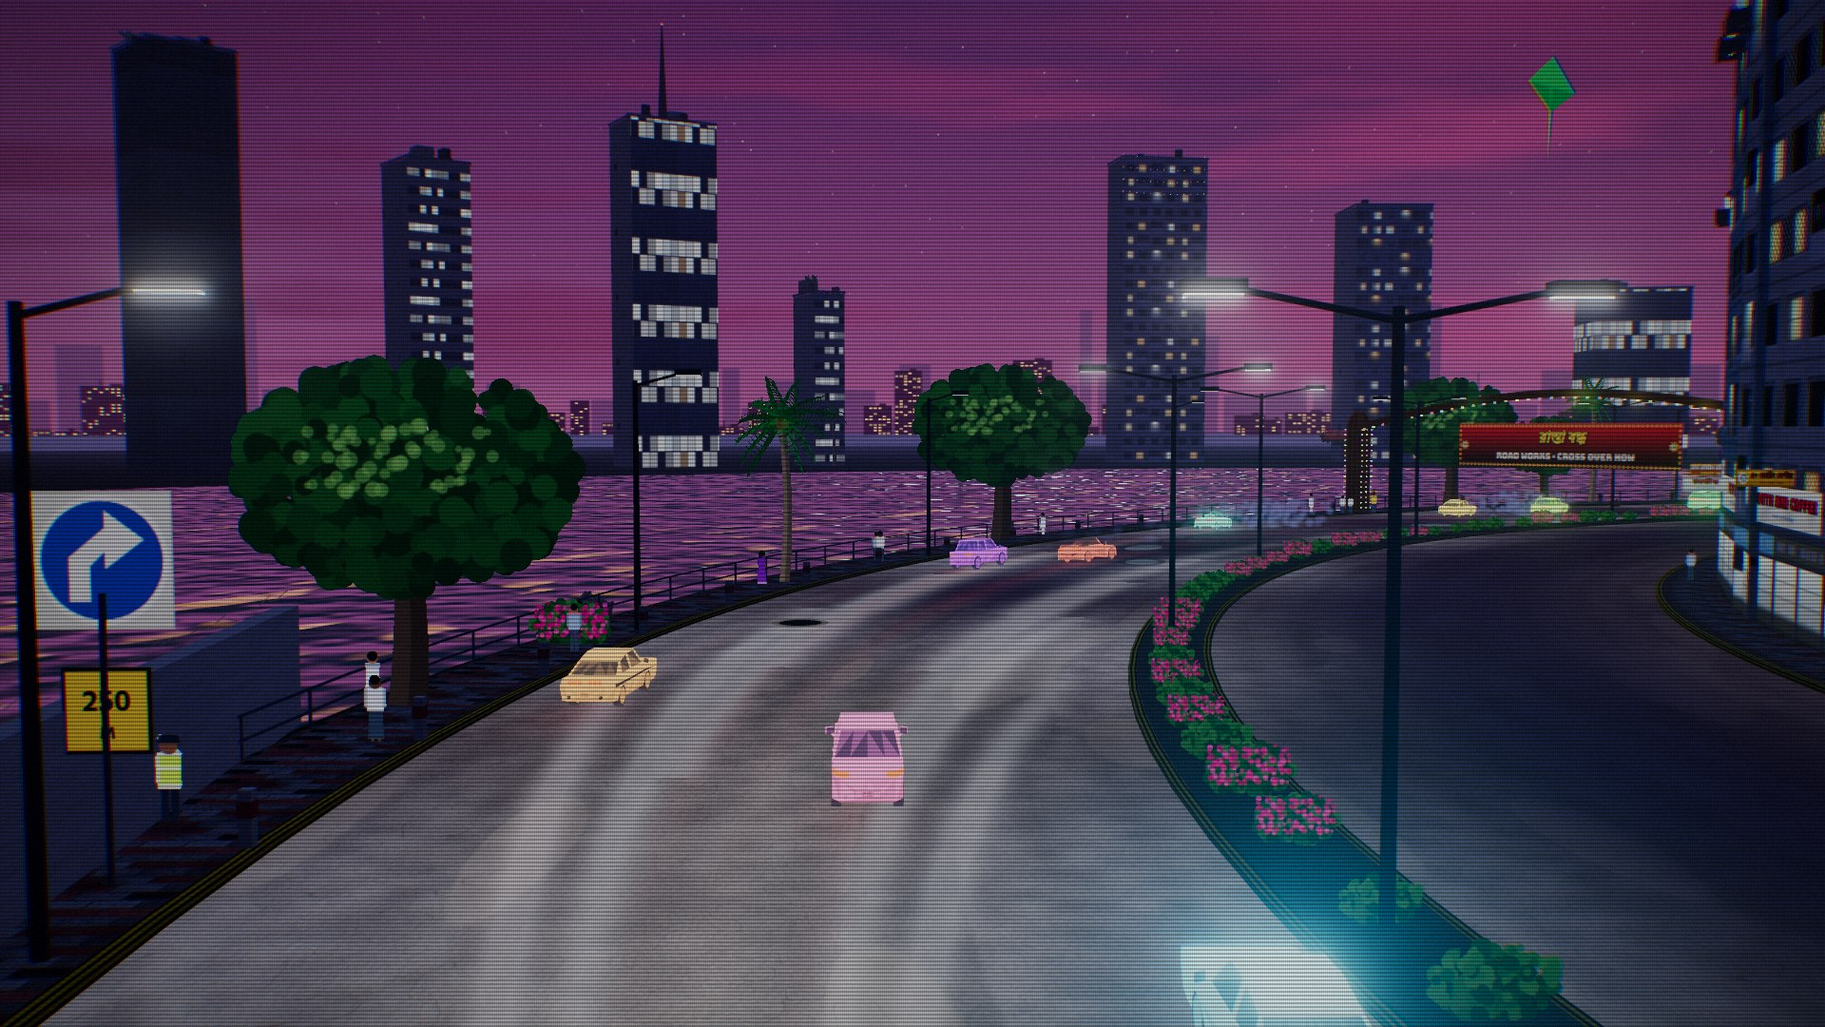
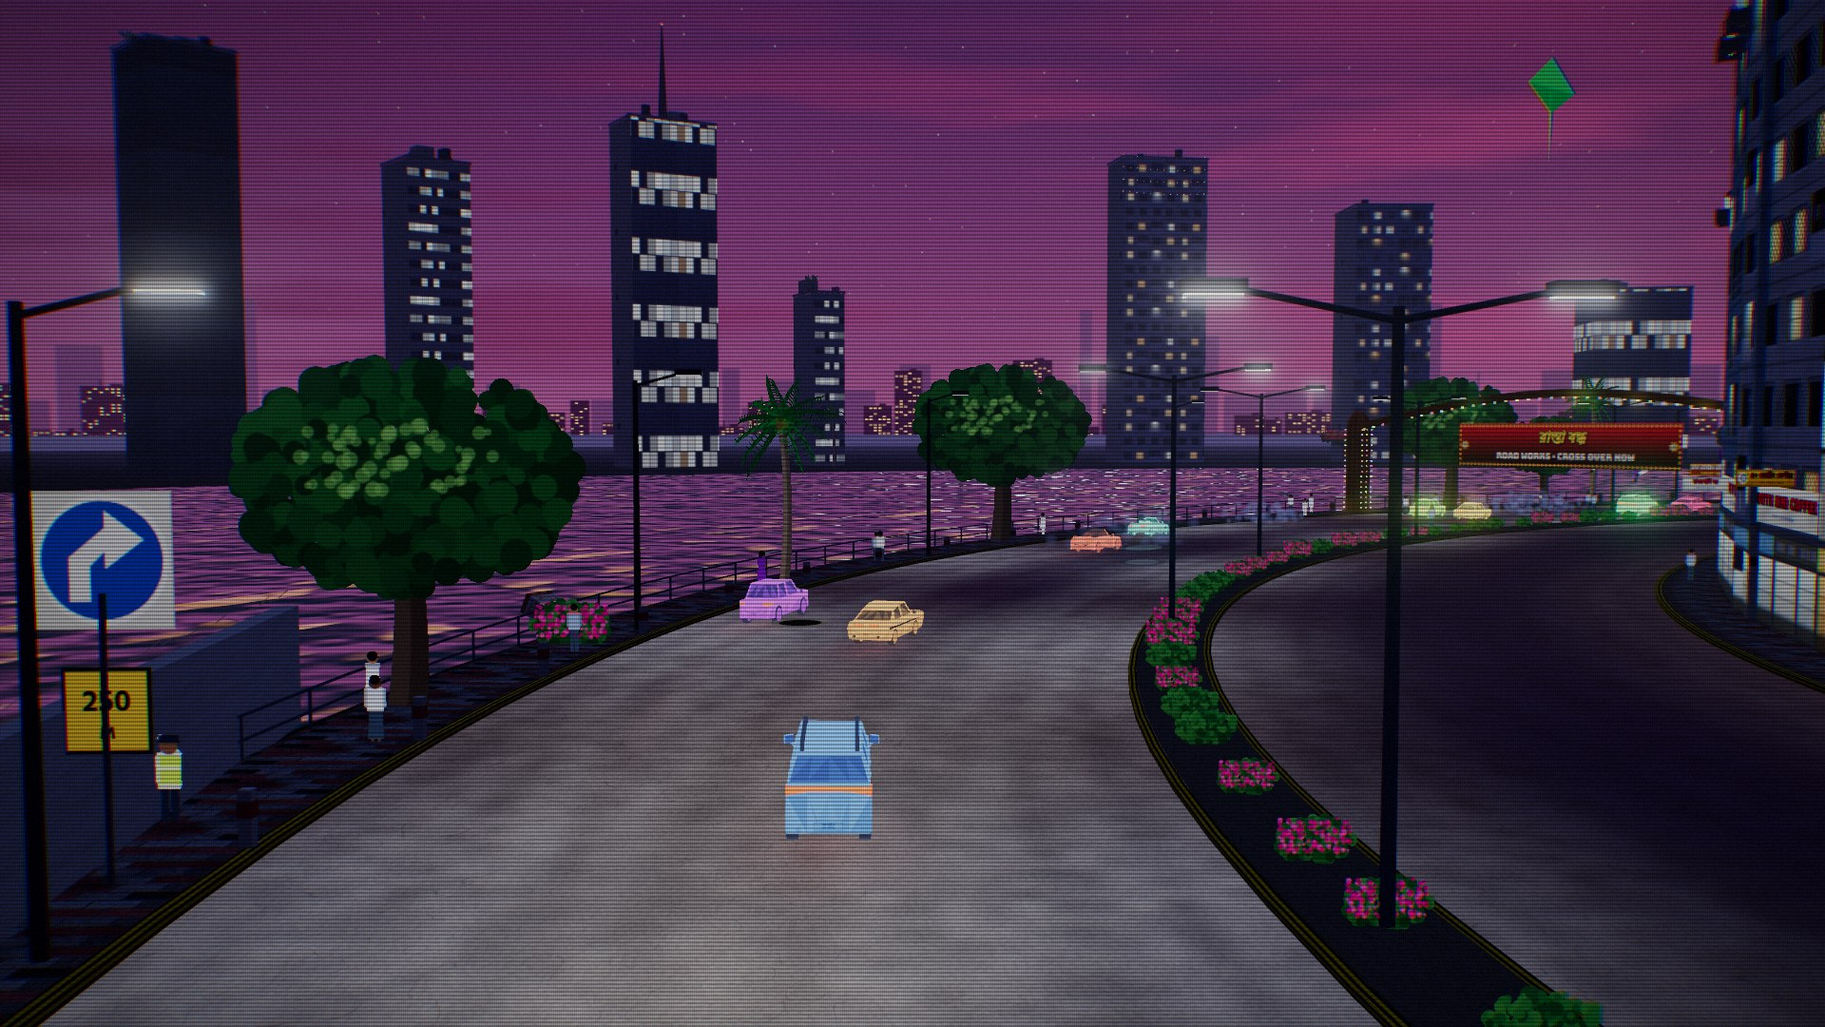
Fix night-road streaks, varied alpana, fill empty land, tilt Sangsad lake, random number plates, new screenshots

Changed region(s): [[0.25, 0.4583, 1.0, 1.0], [0.5625, 0.5806, 0.9062, 1.0], [0.9688, 0.55, 1.0, 0.6111]]

diff --git a/src/world/road.js b/src/world/road.js
@@ -47,6 +47,7 @@ const ROAD_FS = /* glsl */ `
   uniform float uCamX;
   uniform float uCamH;
   uniform float uWet;
+  uniform float uStreak;
   uniform vec3 uSkyRefl;
   uniform vec3 uFogColor;
   uniform float uFogDensity;
@@ -71,36 +72,49 @@ const ROAD_FS = /* glsl */ `
   float vn(vec2 p){ vec2 i=floor(p), f=fract(p); vec2 u=f*f*(3.-2.*f);
     return mix(mix(h12(i),h12(i+vec2(1,0)),u.x), mix(h12(i+vec2(0,1)),h12(i+vec2(1,1)),u.x), u.y); }
 
-  // Pohela Boishakh alpana: lotus medallions, dotted rings, vines
+  // Pohela Boishakh alpana: lotus medallions painted by hand, so no two are alike. Staggered cells, each medallion
+  // jittered, turned, scaled and coloured on its own, a few cells left bare and a few holding only a small ring of
+  // dots. Everything stays inside its cell (extent 3.5 m + 0.5 m jitter in a 4.5 m half-cell), so nothing is cut off.
   vec4 alpana(vec2 p) {
-    vec2 cellSize = vec2(7.0, 7.0);
-    vec2 id = floor(p / cellSize);
-    vec2 q = mod(p, cellSize) - cellSize * 0.5;
+    vec2 cs = vec2(9.0, 9.0);
+    float row = floor(p.y / cs.y);
+    float off = mod(row, 2.0) * 4.5;
+    vec2 id = vec2(floor((p.x + off) / cs.x), row);
+    float k = h12(id), k2 = h12(id + 7.3), k3 = h12(id + 19.1), k4 = h12(id + 31.7);
+    if (k2 < 0.14) return vec4(0.0);
+    vec2 q = vec2(mod(p.x + off, cs.x), mod(p.y, cs.y)) - cs * 0.5;
+    q += (vec2(k3, k4) - 0.5) * 1.0;
+    float sc = 0.55 + 0.45 * k4;
+    q /= sc;
+    float rot = k * 6.2832;
+    q = vec2(q.x * cos(rot) - q.y * sin(rot), q.x * sin(rot) + q.y * cos(rot));
     float r = length(q);
     float a = atan(q.y, q.x + 1e-5);
-    float k = h12(id);
-    float np = k > 0.5 ? 8.0 : 6.0;
+    float np = 5.0 + floor(k2 * 5.0);
+    float small = step(k3, 0.22);
     float petals = pow(max(abs(cos(a * np * 0.5)), 1e-4), 0.6);
-    float petal = 1.0 - smoothstep(-0.03, 0.03, r - (1.0 + 1.5 * petals));
-    float petalIn = 1.0 - smoothstep(-0.03, 0.03, r - (0.7 + 1.0 * petals));
-    float ring = 1.0 - smoothstep(0.06, 0.12, abs(r - 2.9));
-    float dots = (1.0 - smoothstep(0.1, 0.17, length(vec2(mod(a * 2.9 * 3.0, 1.0) - 0.5, (r - 3.25) * 1.2)))) ;
-    float core = 1.0 - smoothstep(-0.03, 0.03, r - 0.45);
-    vec3 c1, c2, c3;
-    if (k < 0.33) { c1 = vec3(0.92, 0.12, 0.10); c2 = vec3(1.0, 0.72, 0.05); c3 = vec3(0.98, 0.96, 0.92); }
-    else if (k < 0.66) { c1 = vec3(0.10, 0.42, 0.86); c2 = vec3(1.0, 0.25, 0.55); c3 = vec3(0.98, 0.96, 0.92); }
-    else { c1 = vec3(0.08, 0.62, 0.30); c2 = vec3(1.0, 0.55, 0.05); c3 = vec3(0.98, 0.96, 0.92); }
+    float petal = (1.0 - smoothstep(-0.03, 0.03, r - (1.0 + 1.5 * petals))) * (1.0 - small);
+    float petalIn = (1.0 - smoothstep(-0.03, 0.03, r - (0.7 + 1.0 * petals))) * (1.0 - small);
+    float ring = (1.0 - smoothstep(0.06, 0.12, abs(r - 2.9))) * (1.0 - small);
+    float nd = 12.0 + floor(k * 8.0);
+    float dots = 1.0 - smoothstep(0.1, 0.17, length(vec2(mod(a * nd / 6.2832, 1.0) - 0.5, (r - 3.25) * 1.2)));
+    dots *= step(2.6, r) * step(r, 3.5);
+    float core = 1.0 - smoothstep(-0.03, 0.03, r - mix(0.45, 1.3, small));
+    float sel = h12(id + 3.9);
+    vec3 c1, c2;
+    vec3 c3 = vec3(0.98, 0.96, 0.92);
+    if (sel < 0.2) { c1 = vec3(0.92, 0.12, 0.10); c2 = vec3(1.0, 0.72, 0.05); }
+    else if (sel < 0.4) { c1 = vec3(0.10, 0.42, 0.86); c2 = vec3(1.0, 0.25, 0.55); }
+    else if (sel < 0.6) { c1 = vec3(0.08, 0.62, 0.30); c2 = vec3(1.0, 0.55, 0.05); }
+    else if (sel < 0.8) { c1 = vec3(0.55, 0.15, 0.65); c2 = vec3(1.0, 0.85, 0.2); }
+    else { c1 = vec3(0.95, 0.45, 0.10); c2 = vec3(1.0, 0.82, 0.25); }
     vec3 col = vec3(0.0);
     float m = 0.0;
     if (petal > 0.0) { col = c1; m = petal; }
     if (petalIn > 0.0) { col = mix(col, c2, petalIn); m = max(m, petalIn); }
-    if (core > 0.0) { col = mix(col, c3, core); m = max(m, core); }
-    float rr = max(ring, dots * step(2.6, r));
+    if (core > 0.0) { col = mix(col, small > 0.5 ? c2 : c3, core); m = max(m, core); }
+    float rr = max(ring, dots);
     if (rr > 0.0) { col = mix(col, c3, rr); m = max(m, rr); }
-    // white vine linking medallions along lane centres
-    float vine = 1.0 - smoothstep(0.05, 0.1, abs(q.x - sin(p.y * 0.9) * 0.5) ) ;
-    vine *= step(3.3, r);
-    col = mix(col, c3, vine * 0.9); m = max(m, vine * 0.9);
     return vec4(col, m);
   }
 
@@ -127,13 +141,11 @@ const ROAD_FS = /* glsl */ `
 
     // --- asphalt
     float n1 = vn(vec2(lx * 1.7, s * 1.7));
-    float n2 = vn(vec2(lx * 0.21 + 5.0, s * 0.09));
+    float n2 = vn(vec2(lx * 0.3 + 5.0, s * 0.3));
     float n3 = h12(floor(vec2(lx, s) * 18.0));
-    vec3 col = vec3(0.080, 0.082, 0.090) * (0.8 + 0.32 * n1) * (0.82 + 0.36 * n2) * (0.9 + 0.22 * n3);
-    float pn = vn(vec2(lx * 0.35 + 17.0, s * 0.06));
-    col = mix(col, col * 0.78, smoothstep(0.68, 0.74, pn));
-    float pn2 = vn(vec2(lx * 0.5 - 3.0, s * 0.11 + 9.0));
-    col = mix(col, vec3(0.13, 0.125, 0.12), smoothstep(0.76, 0.8, pn2) * 0.35);
+    vec3 col = vec3(0.080, 0.082, 0.090) * (0.8 + 0.32 * n1) * (0.92 + 0.16 * n2) * (0.9 + 0.22 * n3);
+    float pn = vn(vec2(lx * 0.4 + 17.0, s * 0.4));
+    col = mix(col, col * 0.9, smoothstep(0.62, 0.8, pn));
     // cracks
     float cr = (1.0 - smoothstep(0.0, 0.012, abs(vn(vec2(lx * 1.6, s * 1.6)) - 0.5))) * smoothstep(0.72, 0.86, vn(vec2(lx * 0.1, s * 0.05 + 40.0)));
     col *= 1.0 - cr * 0.28;
@@ -162,8 +174,11 @@ const ROAD_FS = /* glsl */ `
     }
 
     // --- wetness
-    float pud = feat.g * smoothstep(0.52, 0.58, vn(vec2(lx * 0.25 + 3.0, s * 0.15)));
+    // puddle patches belong to real rain: on a dry night they showed as long pale strips down the road
+    float pud = feat.g * smoothstep(0.52, 0.58, vn(vec2(lx * 0.25 + 3.0, s * 0.15))) * clamp(uStreak * 2.0, 0.0, 1.0);
     float wet = clamp(uWet + pud, 0.0, 1.0);
+    // lamp and tail-light reflections streak only in real rain, not on dry night asphalt or in a puddle patch
+    float wetS = clamp(uStreak, 0.0, 1.0);
     col *= mix(1.0, 0.42, wet);
 
     // --- lighting
@@ -194,9 +209,9 @@ const ROAD_FS = /* glsl */ `
       float cq2 = cs + 2.2;
       float g = exp(-cx * cx / 1.4) * exp(-cq2 * cq2 / 5.0);
       tl += lc * g * c.z * 1.4;
-      if (wet > 0.05) {
+      if (wetS > 0.05) {
         float d = s - uCamS;
-        tl += lc * lampStreak(d, x, c.x, c.y, 0.9) * c.z * wet * 1.0 * smoothstep(14.0, 30.0, c.x - uCamS);
+        tl += lc * lampStreak(d, x, c.x, c.y, 0.9) * c.z * wetS * 0.35 * smoothstep(14.0, 30.0, c.x - uCamS);
       }
     }
     light += tl;
@@ -206,7 +221,7 @@ const ROAD_FS = /* glsl */ `
     vec3 V = normalize(cameraPosition - vWorld);
     float fres = pow(1.0 - clamp(V.y, 0.0, 1.0), 4.0);
     c += uSkyRefl * wet * (0.06 + 0.5 * fres) * 0.35;
-    if (wet > 0.05) {
+    if (wetS > 0.05) {
       float d = s - uCamS;
       float k0 = floor(((uCamS + d / (uCamH / (uCamH + 8.5))) - uLampOffset) / uLampSpacing + 0.5);
       float st = 0.0;
@@ -215,7 +230,7 @@ const ROAD_FS = /* glsl */ `
         st += lampStreak(d, x, sL, uLampX.x, 8.5) * uLampOn.x;
         st += lampStreak(d, x, sL, uLampX.y, 8.5) * uLampOn.y;
       }
-      c += uLampCol * min(st, 0.7) * uLamps * wet * 0.32;
+      c += uLampCol * min(st, 0.5) * uLamps * wetS * 0.07;
       // rain ripples sparkle
       float rp = step(0.995, h12(floor(vec2(lx, s) * 6.0) + floor(uTime * 12.0)));
       c += vec3(0.6) * rp * uRain * 0.4;
@@ -238,6 +253,7 @@ export function makeRoadMaterial(track, featTex, stage) {
     uLamps: shared.uLamps,
     uHead: shared.uHead,
     uWet: shared.uWet,
+    uStreak: shared.uStreak,
     uSkyRefl: shared.uSkyRefl,
     uFogColor: shared.uFogColor,
     uFogDensity: shared.uFogDensity,

diff --git a/src/game/cars.js b/src/game/cars.js
@@ -69,14 +69,33 @@ export function makeEnvMap(renderer, S, old) {
   return rt;
 }
 
-function plateTexture(text) {
+// Dhaka Metro plates: a series letter and a two-and-four digit number, new each race
+const SERIES = ['গ', 'ঘ', 'ক', 'খ', 'চ', 'ছ', 'ল', 'ব', 'ড', 'ঠ', 'হ'];
+const bnDigits = (n) => String(n).replace(/[0-9]/g, (d) => '০১২৩৪৫৬৭৮৯'[d]);
+export function randomPlate() {
+  const r = (n) => Math.floor(Math.random() * n);
+  return { series: 'ঢাকা মেট্রো-' + SERIES[r(SERIES.length)], text: bnDigits(11 + r(40)) + '-' + bnDigits(1000 + r(9000)) };
+}
+const plateMats = [];
+function plateMat(text) {
+  const m = new THREE.MeshBasicMaterial({ map: plateTexture(text) });
+  plateMats.push(m);
+  return m;
+}
+// a new number on every plate of the player's car
+export function rerollPlates() {
+  const p = randomPlate();
+  for (const m of plateMats) { m.map?.dispose(); m.map = plateTexture(p.text, p.series); m.needsUpdate = true; }
+}
+
+function plateTexture(text, series = 'ঢাকা মেট্রো-গ') {
   const cv = document.createElement('canvas');
   cv.width = 256; cv.height = 64;
   const ctx = cv.getContext('2d');
   ctx.fillStyle = '#f4f4ec';
   ctx.fillRect(0, 0, 256, 64);
   ctx.strokeStyle = '#111'; ctx.lineWidth = 4; ctx.strokeRect(2, 2, 252, 60);
-  P.signText(ctx, 'ঢাকা মেট্রো-গ', 128, 20, { font: `700 22px ${P.FONT_BN_SANS}`, fill: '#111', stroke: null, lw: 0 });
+  P.signText(ctx, series, 128, 20, { font: `700 22px ${P.FONT_BN_SANS}`, fill: '#111', stroke: null, lw: 0 });
   P.signText(ctx, text, 128, 46, { font: `700 28px ${P.FONT_BN_SANS}`, fill: '#111', stroke: null, lw: 0 });
   const t = new THREE.CanvasTexture(cv);
   t.colorSpace = THREE.SRGBColorSpace;
@@ -227,7 +246,7 @@ export function buildPlayerCar(def, colorHex, assets) {
     const d = parts.dims;
     const rear = d.len / 2;
     for (const [z, rot, txt] of [[parts.plates.rz + 0.012, 0, '১১-৪২০৪'], [parts.plates.fz - 0.012, Math.PI, '১১-৪২০৪']]) {
-      const pl = new THREE.Mesh(new THREE.PlaneGeometry(0.52, 0.13), new THREE.MeshBasicMaterial({ map: plateTexture(txt) }));
+      const pl = new THREE.Mesh(new THREE.PlaneGeometry(0.52, 0.13), plateMat(txt));
       pl.position.set(0, parts.plates.y, z);
       pl.rotation.y = rot;
       body.add(pl);
@@ -305,7 +324,7 @@ export function buildPlayerCar(def, colorHex, assets) {
       body.add(slat);
     }
     // plate
-    const plate = new THREE.Mesh(new THREE.PlaneGeometry(0.52, 0.13), new THREE.MeshBasicMaterial({ map: plateTexture('৮৬-১৯৮৬') }));
+    const plate = new THREE.Mesh(new THREE.PlaneGeometry(0.52, 0.13), plateMat('৮৬-১৯৮৬'));
     plate.position.set(0, 0.42, 2.3);
     body.add(plate);
     // exhausts
@@ -370,7 +389,7 @@ export function buildPlayerCar(def, colorHex, assets) {
       hl.position.set(x, 0.58, -2.3);
       body.add(hl);
     }
-    const plate = new THREE.Mesh(new THREE.PlaneGeometry(0.52, 0.13), new THREE.MeshBasicMaterial({ map: plateTexture('১১-৪২০৪') }));
+    const plate = new THREE.Mesh(new THREE.PlaneGeometry(0.52, 0.13), plateMat('১১-৪২০৪'));
     plate.position.set(0, 0.48, 2.31);
     body.add(plate);
     // the sticker on the rear window (faces backward, follows the glass slope)

diff --git a/src/world/chunk.js b/src/world/chunk.js
@@ -81,10 +81,11 @@ export class ChunkCtx {
     return o;
   }
 
-  // landmark breathing room: nothing tall gets placed in a reserved zone
+  // landmark breathing room: nothing is placed between the road and just behind the landmark; the city carries on beyond
+  // it, so the place stands in its street and not alone in an empty lot
   isClear(s, side, ax = 99) {
     for (const z of this.track.clear || []) {
-      if (s >= z.s0 && s <= z.s1 && z.side === side && ax > this.track.halfWAt(s) + 3.5) return true;
+      if (s >= z.s0 && s <= z.s1 && z.side === side && ax > this.track.halfWAt(s) + 3.5 && ax < (z.x1 ?? 1e9)) return true;
     }
     return false;
   }
@@ -363,6 +364,27 @@ export function sectionRuns(track, s0, s1) {
   return out;
 }
 
+// open country is never bare: hamlets of tin huts among trees, tree belts, and a far row of low buildings, so the land
+// reads as lived-in out to the horizon
+function countryside(ctx, a, b, side, xm, opts = {}) {
+  const rng = ctx.rng;
+  const st = ctx.stage;
+  const hamlets = Math.floor((b - a) / (opts.every || 55) + rng.next());
+  for (let i = 0; i < hamlets; i++) {
+    const s0 = rng.range(a, Math.max(a + 1, b - 22));
+    const x0 = xm + rng.range(16, 110);
+    const huts = 2 + Math.floor(rng.next() * 3);
+    for (let k = 0; k < huts; k++) {
+      const s = s0 + k * rng.range(7, 12);
+      if (s > b - 8 || ctx.isClear(s, side, x0)) continue;
+      PR.building(ctx, s, side, x0 + rng.range(-5, 5), rng.range(5, 8), rng.range(4, 6), rng.range(3.2, 4.4), { facade: 'tin', shop: null }, { noRoof: true });
+    }
+    trees(ctx, s0 - 6, Math.min(b, s0 + 40), side, x0 - 8, x0 + 14, 0.12, st.trees);
+  }
+  trees(ctx, a, b, side, xm + 110, xm + 270, opts.belt ?? 0.09, st.trees);
+  placeBuildingsRow(ctx, a, b, side, xm + (opts.farX || 150), { shops: false, facades: opts.facades || ['apt_raw', 'tin', 'apt_cream'], heights: opts.heights || [6, 14], wmin: 8, wmax: 15, gap: opts.gap || 28, noStreets: true, balconies: false, towerP: 0 });
+}
+
 const SIDES = {
   city(ctx, a, b, side, xIn, far = false) {
     const st = ctx.stage;
@@ -456,6 +478,7 @@ const SIDES = {
       const s = ctx.rng.range(a, b - 10);
       PR.building(ctx, s, side, xm + ctx.rng.range(10, 30), ctx.rng.range(5, 8), 5, 3.6, { facade: 'tin', shop: null }, { noRoof: true });
     }
+    countryside(ctx, a, b, side, xm);
     if (st.fieldLife) sidewalkLife(ctx, a, b, side, xm + 1.5, 3, { density: 0.03, life: st.fieldLife });
     if (st.lampL !== false && st.fieldLamps) lampsAlong(ctx, a, b, side, (s) => xIn(s) + 1.5, { h0: 0 });
   },
@@ -472,6 +495,8 @@ const SIDES = {
       if (xx < 12) ctx.obstacle(s, side * xx, 0.6, 0.6, 'soft');
     }
     trees(ctx, a, b, side, xm + 14, xm + 120, 0.04, st.trees);
+    // the new town: blocks of flats standing apart across the plain
+    countryside(ctx, a, b, side, xm, { every: 90, farX: 70, heights: [15, 36], gap: 34, facades: ['apt_cream', 'apt_raw'] });
     if (st.fieldLamps) lampsAlong(ctx, a, b, side, (s) => xIn(s) + 1.5, { h0: 0 });
   },
   wall(ctx, a, b, side, xIn) {

diff --git a/src/game/game.js b/src/game/game.js
@@ -26,7 +26,7 @@ import { Weather } from './weather.js';
 import { loadCarAssets } from './carassets.js';
 import { loadLandmarkModels } from '../world/models.js';
 import { Race } from './race.js';
-import { CARS, buildPlayerCar, makeEnvMap, applyEnv } from './cars.js';
+import { CARS, buildPlayerCar, makeEnvMap, applyEnv, rerollPlates } from './cars.js';
 import { audio } from '../audio/audio.js';
 import { music, TRACKS } from '../audio/music.js';
 import { clamp, lerp, damp, smoothstep, fx } from '../core/util.js';
@@ -143,6 +143,7 @@ export class Game {
   // kind 'circuit' races `district` for three laps; kind 'run' crosses the whole city
   startRace(kind, district = 'dhanmondi') {
     this.attract?.stop();
+    rerollPlates();
     this.kind = kind;
     this.district = district;
     const stageId = kind === 'circuit' ? circuitStage(district).id : ROUTE[0];
@@ -331,7 +332,7 @@ export class Game {
     this.peds.rain = this.weather.rain;
     this.peds.update(dt, P, live, this.traffic.factor * 1.1, this.traffic.cars, movers);
     this.stalls.update(dt, R.playerG(), movers);
-    this.litter.update(dt, this.night, movers, Math.max(this.weather.rain, shared.uWet.value * 0.8));
+    this.litter.update(dt, this.night, movers, Math.max(this.weather.rain, shared.uStreak.value * 0.8));
     for (const e of this.litter.events) {
       const it = e.it;
       const tr = it.tr;
@@ -593,6 +594,7 @@ export class Game {
     shared.uFlash.value = this.weather.flash;
     shared.uRain.value = this.weather.rain;
     // after dark the streets are always a little wet: lamps and tail lights streak across the tarmac, the road shines
+    shared.uStreak.value = damp(shared.uStreak.value, Math.max(this.wetTarget || 0, this.weather.rain), 0.5, dt);
     shared.uWet.value = damp(shared.uWet.value, Math.max(this.wetTarget || 0, this.weather.rain, this.night * 0.6), 0.5, dt);
     shared.uHead.value = smoothstep(18.25, 18.9, hour) * (1 - smoothstep(29.4, 29.9, hour));
     const M = this.world.mats;

diff --git a/src/world/fxatlas.js b/src/world/fxatlas.js
@@ -72,12 +72,18 @@ export function buildFxAtlas() {
     for (let x = 0; x < w; x += 5) { c.beginPath(); c.moveTo(x, 0); c.lineTo(x + 4, h); c.stroke(); }
     c.fillStyle = '#c9ccd0'; c.fillRect(w / 2 - 6, h / 2 - 4, 12, 8);
   });
-  A.add('plate', 128, 32, (c, e, w, h) => {
-    c.fillStyle = '#f4f4ec'; c.fillRect(0, 0, w, h);
-    c.strokeStyle = '#111'; c.lineWidth = 2; c.strokeRect(1, 1, w - 2, h - 2);
-    P.signText(c, 'ঢাকা মেট্রো-গ', w / 2, 10, { font: `700 10px ${P.FONT_BN_SANS}`, fill: '#111', stroke: null, lw: 0 });
-    P.signText(c, '১১-' + Math.floor(1000 + rng.next() * 8999).toString().replace(/[0-9]/g, (d) => '০১২৩৪৫৬৭৮৯'[d]), w / 2, 23, { font: `700 13px ${P.FONT_BN_SANS}`, fill: '#111', stroke: null, lw: 0 });
-  });
+  // sixteen different plates, drawn fresh each time the game loads, so the traffic does not all carry one number
+  const SERIES = ['গ', 'ঘ', 'ক', 'খ', 'চ', 'ছ', 'ল', 'ব', 'ড', 'ঠ', 'হ'];
+  const bn = (n) => String(n).replace(/[0-9]/g, (d) => '০১২৩৪৫৬৭৮৯'[d]);
+  for (let i = 0; i < 16; i++) {
+    A.add('plate' + i, 128, 32, (c, e, w, h) => {
+      c.fillStyle = '#f4f4ec'; c.fillRect(0, 0, w, h);
+      c.strokeStyle = '#111'; c.lineWidth = 2; c.strokeRect(1, 1, w - 2, h - 2);
+      P.signText(c, 'ঢাকা মেট্রো-' + SERIES[Math.floor(Math.random() * SERIES.length)], w / 2, 10, { font: `700 10px ${P.FONT_BN_SANS}`, fill: '#111', stroke: null, lw: 0 });
+      P.signText(c, bn(11 + Math.floor(Math.random() * 40)) + '-' + bn(1000 + Math.floor(Math.random() * 9000)), w / 2, 23, { font: `700 13px ${P.FONT_BN_SANS}`, fill: '#111', stroke: null, lw: 0 });
+    });
+  }
+
   A.add('taxi_sign', 64, 32, (c, e, w, h) => {
     c.fillStyle = '#ffd200'; c.fillRect(0, 0, w, h);
     P.signText(c, 'TAXI', w / 2, h / 2, { font: `400 16px ${P.FONT_SIGN}`, fill: '#111', stroke: null, lw: 0 });

diff --git a/src/game/carmodels.js b/src/game/carmodels.js
@@ -81,11 +81,16 @@ function wheels(B, A, W, z0, z1, r, w = 0.24) {
   }
 }
 
+// each model gets its own plate: the front takes the next one and the rear matches it
+let plateN = Math.floor(Math.random() * 16), plateCur = 0;
+function nextPlate(A) { plateCur = plateN++ % 16; return A.get('plate' + plateCur); }
+
 function plate(B, A, z, y, back = true) {
+  const region = back ? A.get('plate' + plateCur) : nextPlate(A);
   const hw = 0.26, hh = 0.07;
   const zz = z + (back ? 0.012 : -0.012);
-  if (back) B.quad([-hw, y - hh, zz], [hw, y - hh, zz], [hw, y + hh, zz], [-hw, y + hh, zz], [0, 0, 1, 1], [1, 1, 1], A.get('plate'));
-  else B.quad([hw, y - hh, zz], [-hw, y - hh, zz], [-hw, y + hh, zz], [hw, y + hh, zz], [0, 0, 1, 1], [1, 1, 1], A.get('plate'));
+  if (back) B.quad([-hw, y - hh, zz], [hw, y - hh, zz], [hw, y + hh, zz], [-hw, y + hh, zz], [0, 0, 1, 1], [1, 1, 1], region);
+  else B.quad([hw, y - hh, zz], [-hw, y - hh, zz], [-hw, y + hh, zz], [hw, y + hh, zz], [0, 0, 1, 1], [1, 1, 1], region);
 }
 
 function finish(m, len, wid, hgt, extra = {}) {
@@ -396,7 +401,7 @@ export function tesla(A, variant = 0) {
 function fromPack(A, name, fit, opts = {}) {
   const B = new MeshBuilder(true);
   const Lt = lights();
-  const dims = emitTraffic(B, Lt, name, fit, A.get('white'), opts.tint || [1, 1, 1], { plateRegion: A.get('plate'), ...opts });
+  const dims = emitTraffic(B, Lt, name, fit, A.get('white'), opts.tint || [1, 1, 1], { plateRegion: nextPlate(A), ...opts });
   opts.extra?.(B, Lt, A, dims);
   return finish({ B, Lt }, dims.len, dims.wid, dims.hgt, opts.finish);
 }

diff --git a/src/world/landmarks.js b/src/world/landmarks.js
@@ -332,7 +332,13 @@ export const LANDMARKS = {
     const cc = F.L(0, 0, 0);
     B.cylinder(cc[0], cc[1] - 1, cc[2], 19, 19, 47, 8, [0.66, 0.64, 0.6], conc, { cap: true, capColor: [0.5, 0.48, 0.45], uRep: 5, tileV: 8 });
     // lake around it
-    const water = new THREE.Mesh(new THREE.CircleGeometry(140, 48), ctx.track.waterMat || ctx.world.mats.water);
+    const lakeGeo = new THREE.CircleGeometry(140, 48);
+    // the land climbs along the road: tilt the lake with it, so the road never ends up below the water
+    {
+      const g0 = ctx.track.groundAt(s), fx = Math.sin(F.yaw), fz = -Math.cos(F.yaw), P = lakeGeo.attributes.position;
+      for (let i = 0; i < P.count; i++) P.setZ(i, ctx.track.groundAt(s + P.getX(i) * fx - P.getY(i) * fz) - g0);
+    }
+    const water = new THREE.Mesh(lakeGeo, ctx.track.waterMat || ctx.world.mats.water);
     water.rotation.x = -Math.PI / 2;
     water.position.set(F.p[0], F.p[1] + 0.08, F.p[2]);
     ctx.extra.push(water);

diff --git a/src/world/world.js b/src/world/world.js
@@ -199,7 +199,7 @@ export class World {
     for (let i = 0; i < tr.n; i += 10) ym += tr.yaw[i];
     tr.meanYaw = ym / Math.ceil(tr.n / 10);
     // reserved zones for landmarks
-    tr.clear = (stage.landmarks || []).filter((l) => l.clear).map((l) => ({ s0: tr.mapS(l.clear[0]), s1: tr.mapS(l.clear[1]), side: l.side }));
+    tr.clear = (stage.landmarks || []).filter((l) => l.clear).map((l) => ({ s0: tr.mapS(l.clear[0]), s1: tr.mapS(l.clear[1]), side: l.side, x1: (l.dist || 40) + Math.max(40, (l.dist || 40) * 0.5) }));
     // features
     const alp = (stage.alpana || []).map(([a, b]) => [tr.mapS(a), tr.mapS(b)]);
     const pud = (stage.puddles || []).map(([a, b]) => [tr.mapS(a), tr.mapS(b)]);

diff --git a/src/world/materials.js b/src/world/materials.js
@@ -20,6 +20,7 @@ export const shared = {
   uLamps: { value: 0 },
   uHead: { value: 0 },
   uWet: { value: 0 },
+  uStreak: { value: 0 }, // real wetness only (rain, puddles): what makes lamp reflections streak down the road
   uSkyRefl: { value: new THREE.Color(0.5, 0.4, 0.5) },
   uMarkFade: { value: 0.6 },
   uFlash: { value: 0 },

diff --git a/README.md b/README.md
@@ -8,7 +8,7 @@ Runs in the browser. No install, no assets to download: the world, the music and
 
 | | |
 |---|---|
-| ![Shahbag at sunset](docs/screenshots/shahbag.jpg) | ![Dhanmondi](docs/screenshots/dhanmondi.jpg) |
+| ![Shahbag at sunset](docs/screenshots/shahbag.jpg) | ![Kawran Bazar in the rain](docs/screenshots/kawran-bazar.jpg) |
 | ![Old Dhaka at night](docs/screenshots/old-dhaka.jpg) | ![Gulshan lakeside](docs/screenshots/gulshan.jpg) |
 | ![Motijheel in the monsoon](docs/screenshots/motijheel.jpg) | ![Race picker](docs/screenshots/map.jpg) |
 
